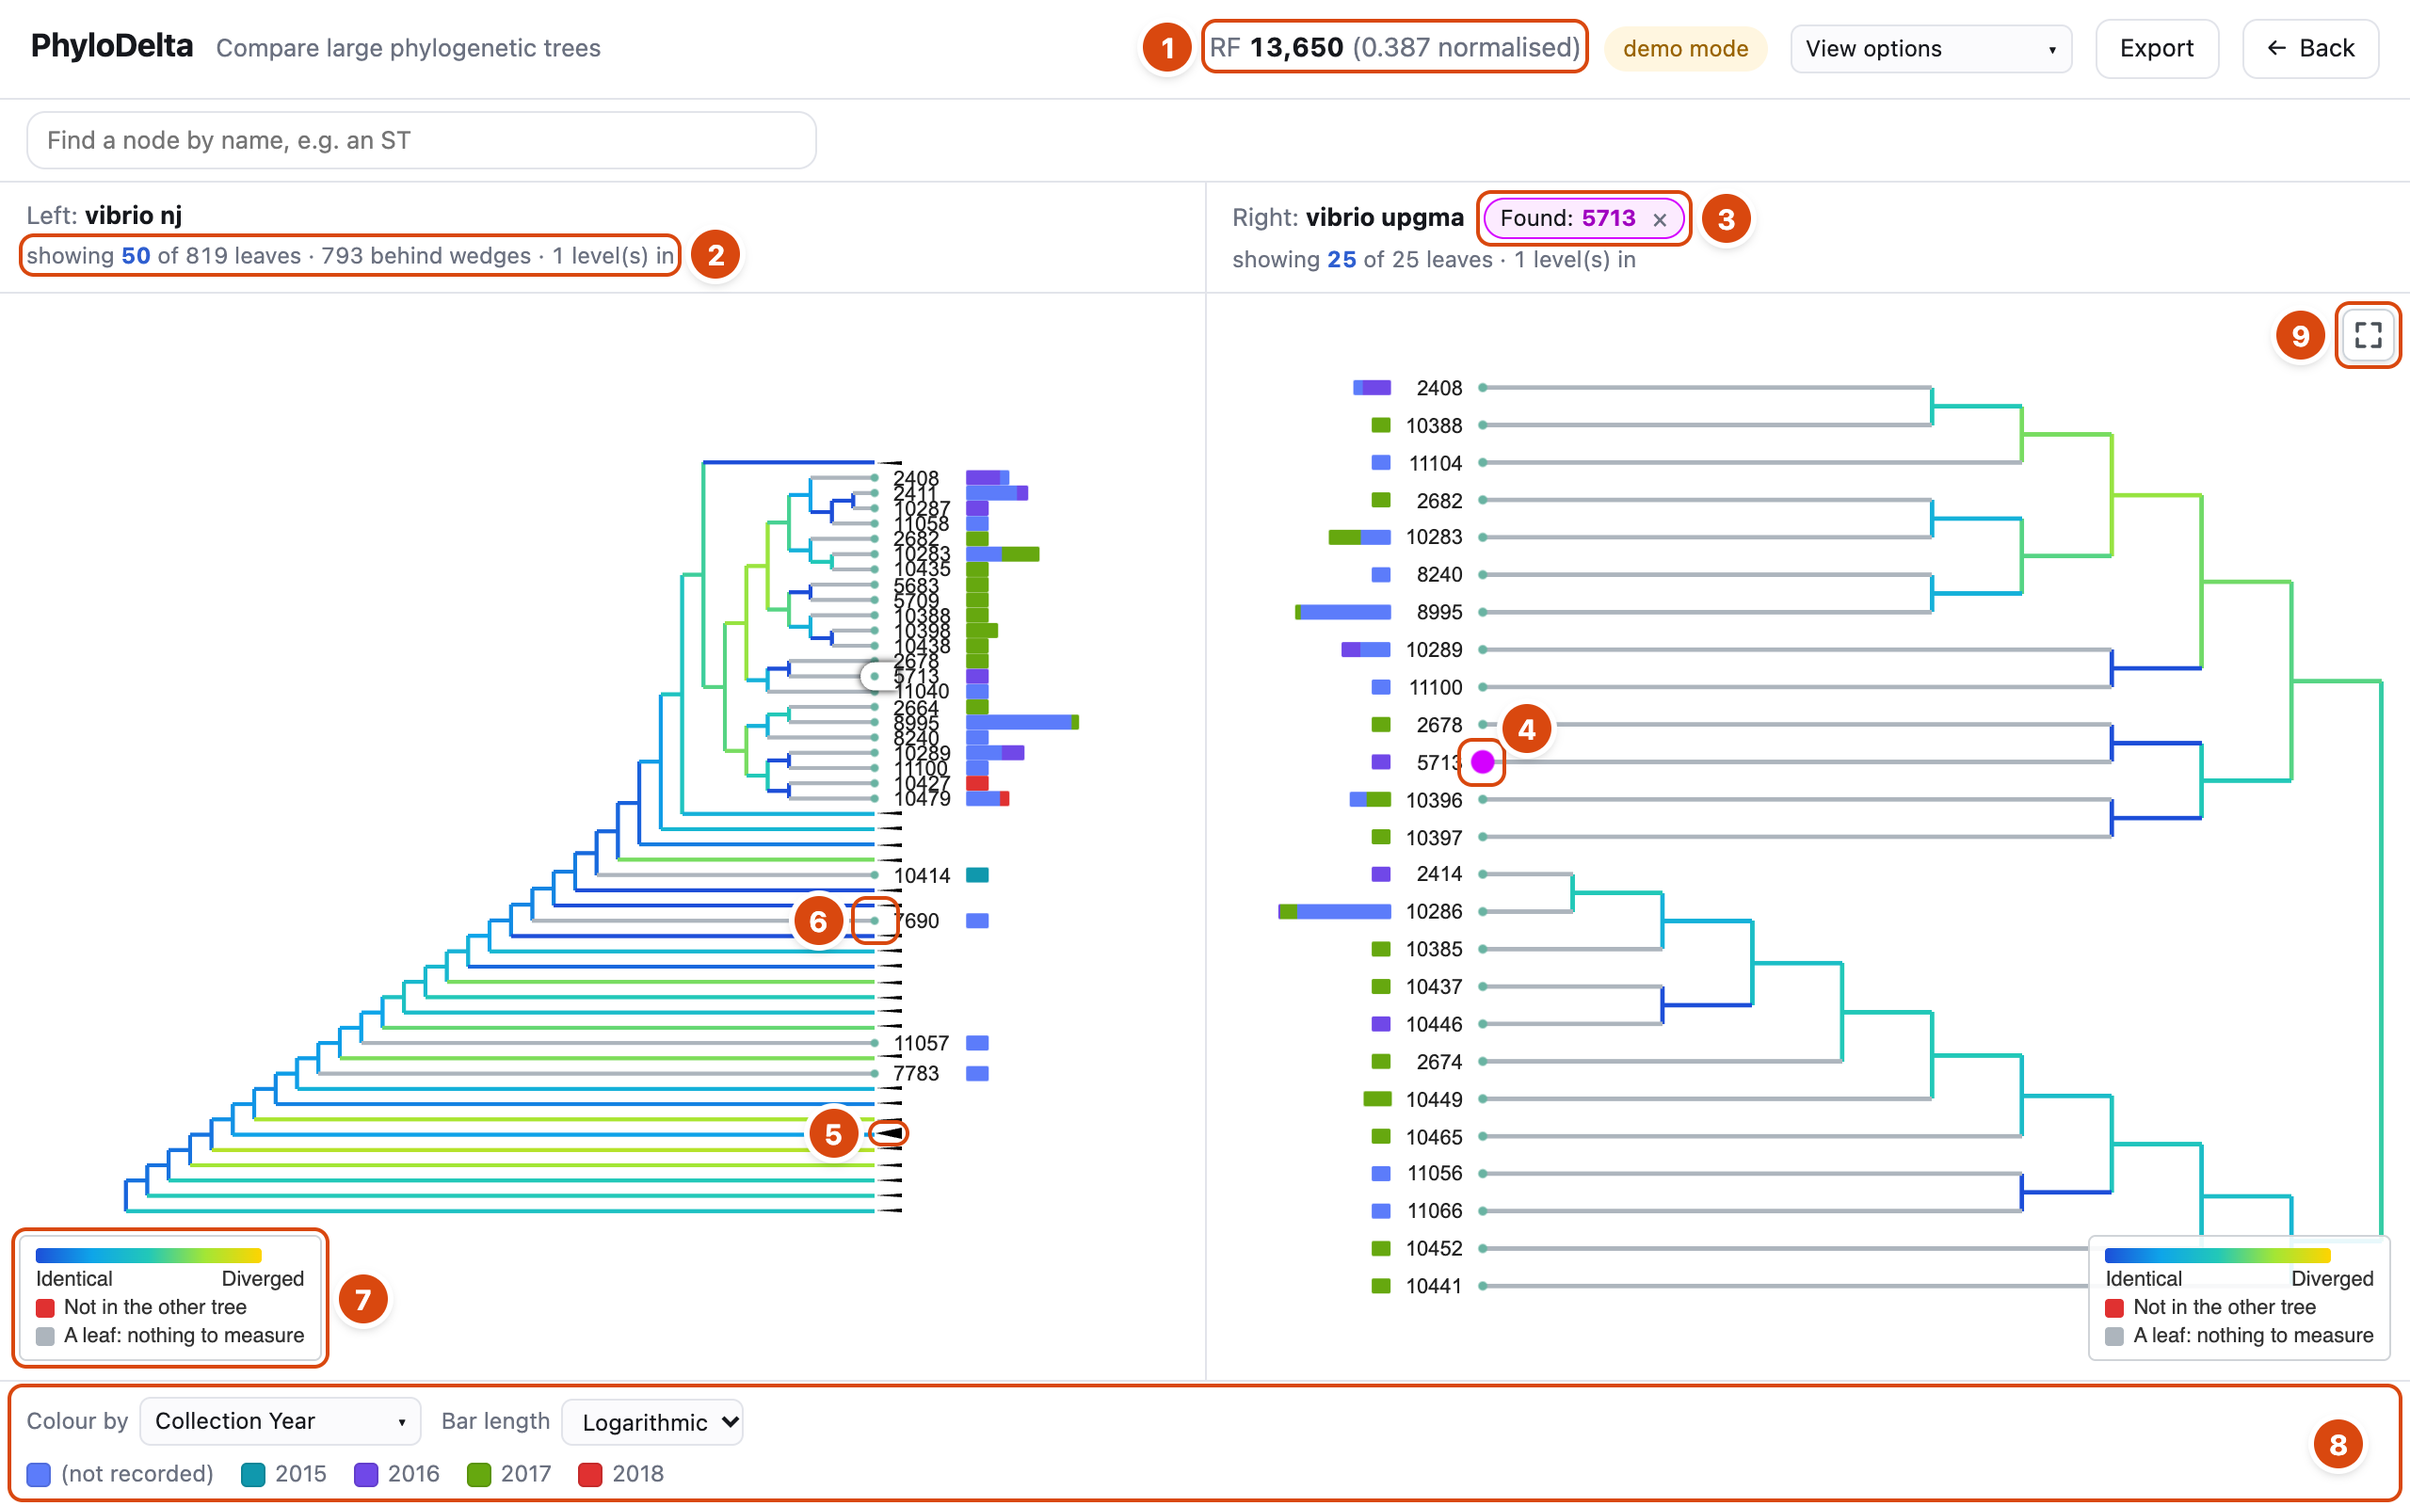
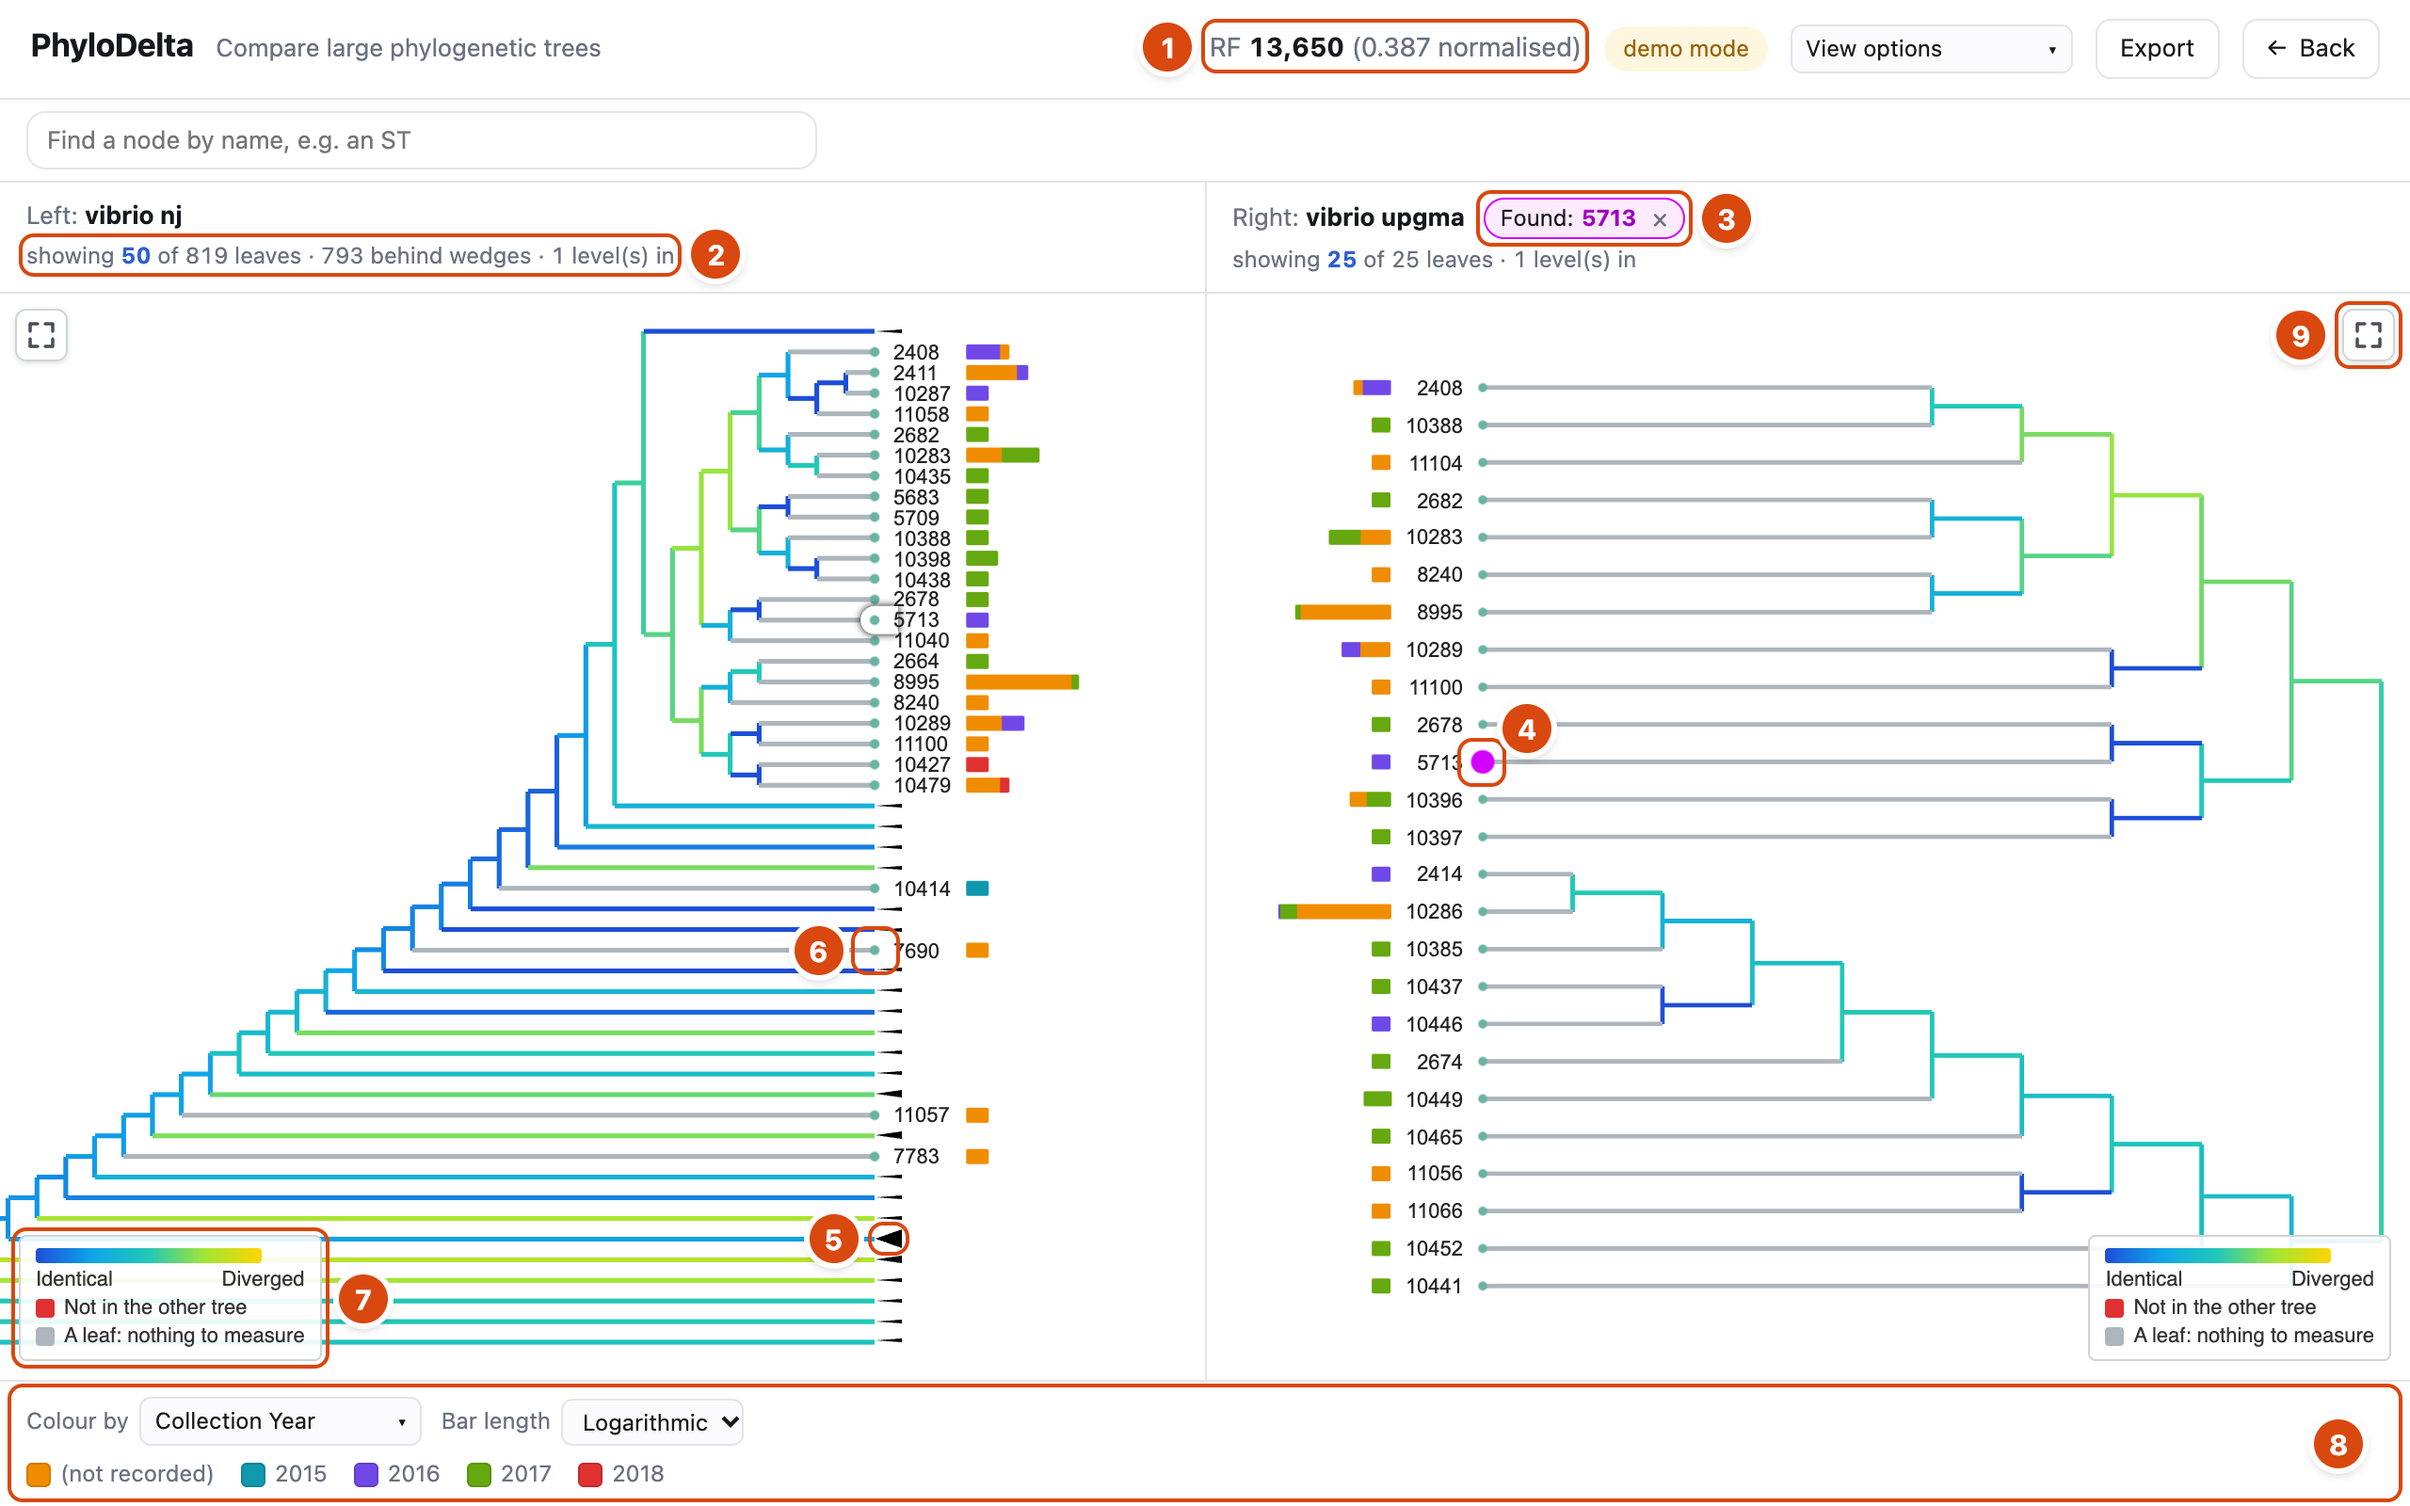
docs: comparison screenshot one level in, both panels zoomed to read, bars by a mostly-recorded column, fit button (9), plus an unannotated copy
The left panel opens a clade of about a thousand leaves and is zoomed until the
tree fills the panel's height, about the leaf column; the right is zoomed 1.2x
so its fit button shows. Both through a new zoom(side, factor, at?) on the
window.__phylodelta probe, since a wheel step is sigma's fixed 1.7x. The bar
column is chosen from the compositions of the leaves on screen (fewest mostly
unrecorded, 2–10 values). reading-a-comparison gains item 9.
record_docs_videos.mjs writes both comparison-annotated.png and comparison.png.

diff --git a/code/web/src/comparison/ComparisonView.tsx b/code/web/src/comparison/ComparisonView.tsx
@@ -431,7 +431,7 @@ declare global {
       actions: () => [SideActions, SideActions];
       marks: () => [MarkProbe, MarkProbe];
       drawn: (side: 0 | 1) => DrawnProbe[];
-      zoom: (side: 0 | 1, factor: number) => void;
+      zoom: (side: 0 | 1, factor: number, at?: { x: number; y: number }) => void;
     };
   }
 }
@@ -674,11 +674,17 @@ export function ComparisonView({
           }];
         });
       },
-      // Zoom a panel about its centre by any factor; the wheel only steps by
-      // sigma's fixed 1.7x. For the docs screenshot's "zoomed a little".
-      zoom: (side, factor) => {
-        const camera = handle.current?.panels[side]?.viewer.getRenderer()?.getCamera();
-        camera?.setState({ ratio: camera.getState().ratio / factor });
+      // Zoom a panel by any factor, about its centre or a page point `at`; the
+      // wheel only steps by sigma's fixed 1.7x. For the docs screenshot.
+      zoom: (side, factor, at) => {
+        const viewer = handle.current?.panels[side]?.viewer;
+        const renderer = viewer?.getRenderer();
+        if (!viewer || !renderer) return;
+        const camera = renderer.getCamera();
+        const ratio = camera.getState().ratio / factor;
+        if (!at) return camera.setState({ ratio });
+        const box = viewer.getContainer().getBoundingClientRect();
+        camera.setState(renderer.getViewportZoomedState({ x: at.x - box.left, y: at.y - box.top }, ratio));
       },
     };
     return () => {
